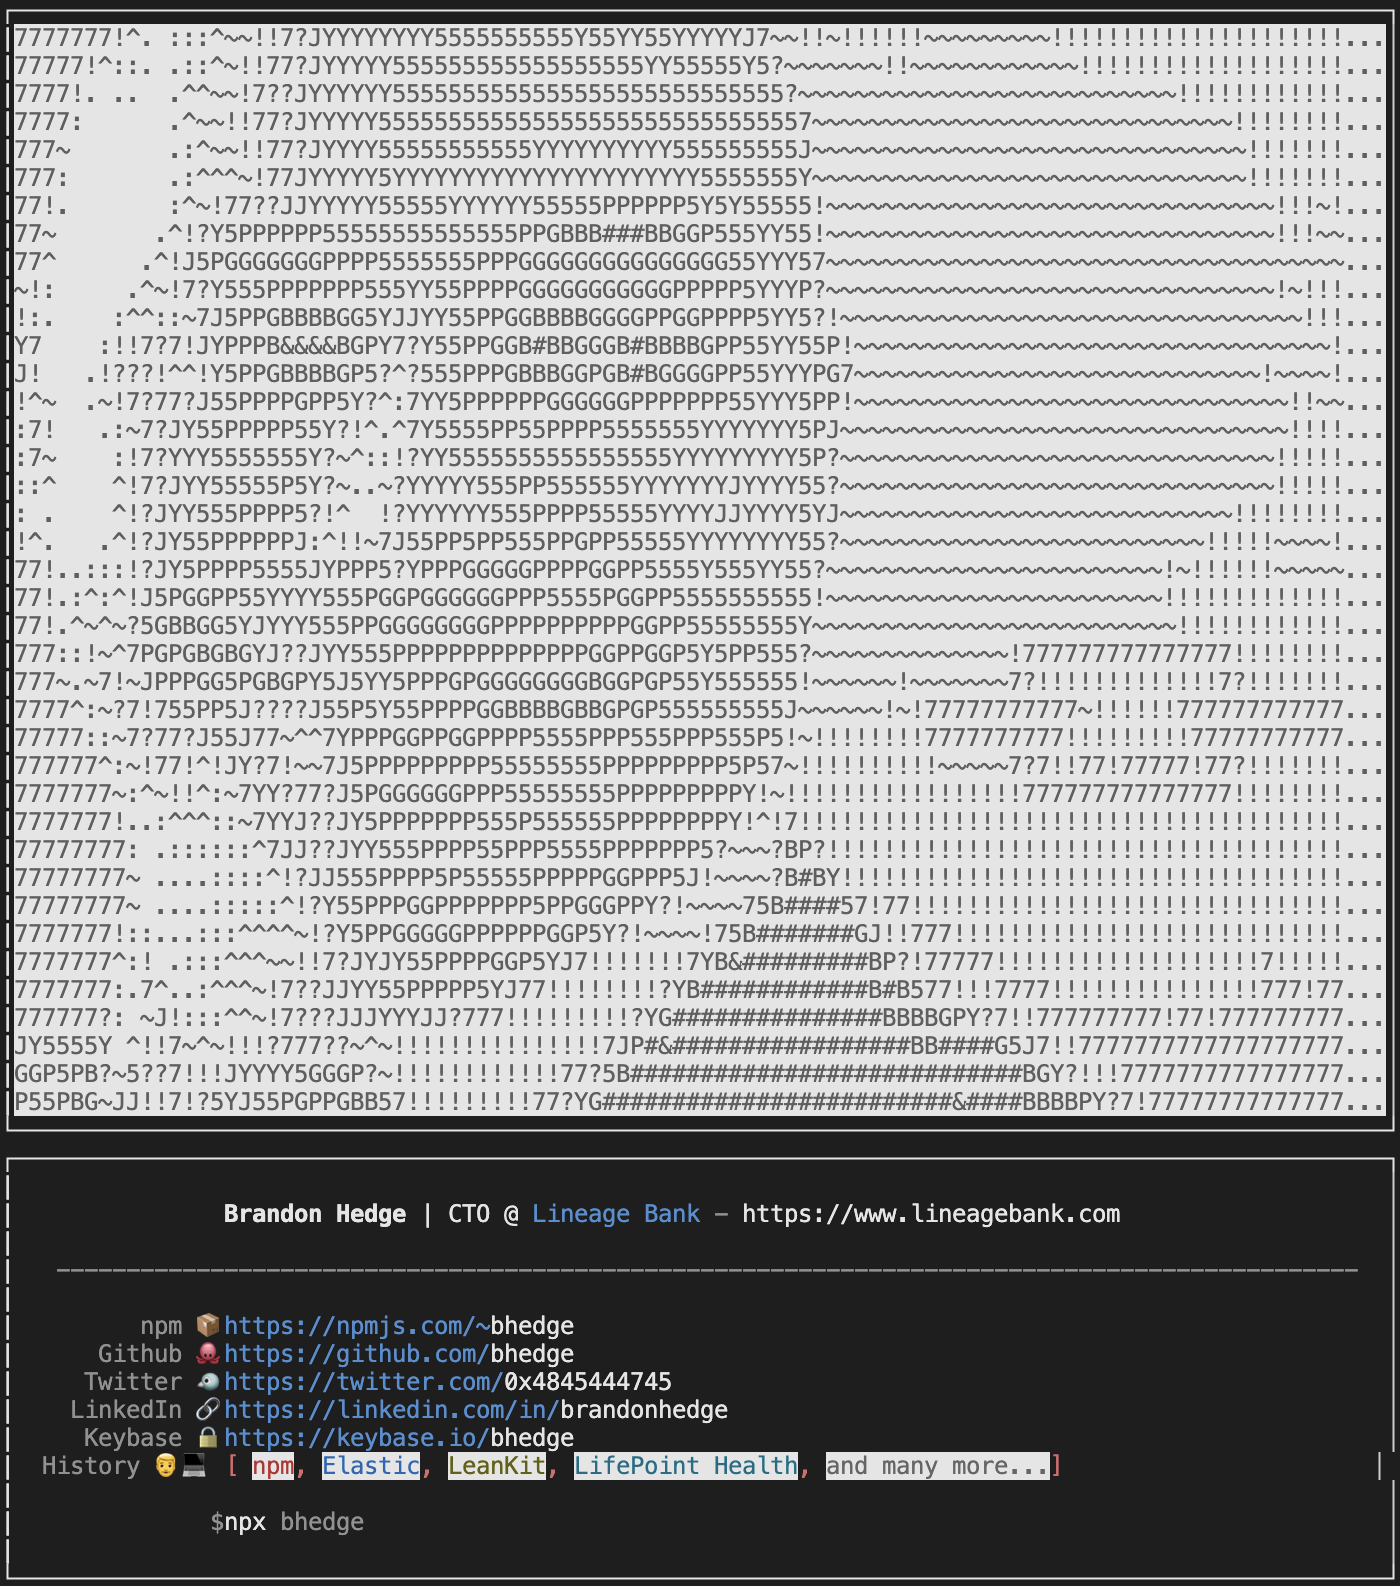
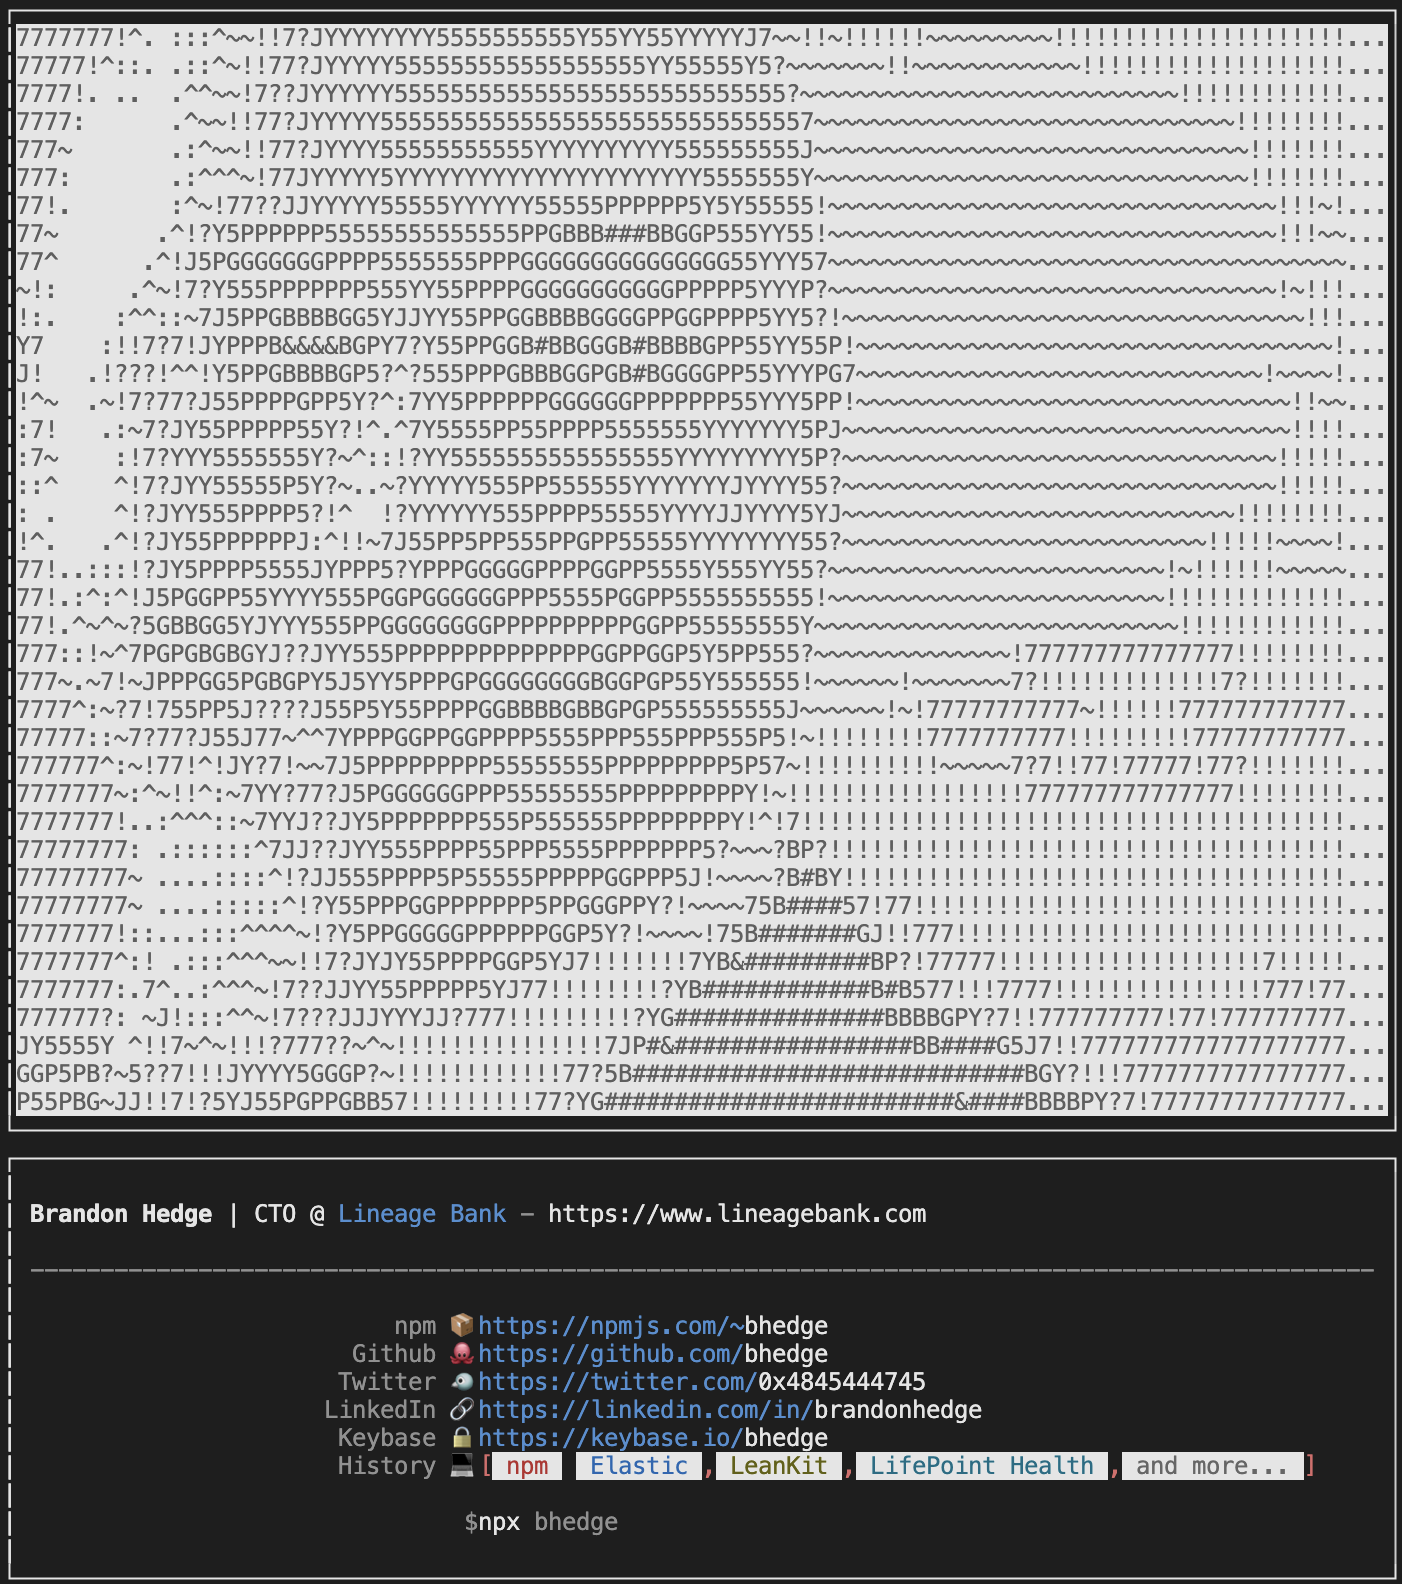
update moar

diff --git a/bin/card.js b/bin/card.js
@@ -65,11 +65,11 @@ PJ~.   ~YGBPBBBGBG5Y?7777??????JJYB######################&&&&&&&##BBBBBBBB######
 `.inverse;
 
 const blank = { label: '', value: '' }
-const line = { label: '------------', value: '---------------------------------------------------------------------------------' }
+const line = { label: '--------------------------------', value: '----------------------------------------------------------------' }
 const data = {
   name: {
-    label: '',
-    value: colors.grey(`${colors.white.bold('Brandon Hedge')} ${colors.white('| CTO @')} ${colors.blue('Lineage Bank')} - ${colors.white('https://www.lineagebank.com')}`)  
+    label: `${colors.white.bold(' Brandon Hedge')}`,
+    value: colors.grey(`${colors.white(' | CTO @')} ${colors.blue('Lineage Bank')} - ${colors.white('https://www.lineagebank.com')}`)  
   },
   npm: {
     label: 'npm 📦',
@@ -91,10 +91,6 @@ const data = {
     label: 'Keybase 🔒',
     value: colors.blue(`https://keybase.io/${colors.white('bhedge')}`)
   },
-  previous: {
-    label: '  History 👨💻',
-    value: colors.red(` [ ${colors.red('npm').bgWhite}, ${colors.blue('Elastic').bgWhite}, ${colors.yellow('LeanKit').bgWhite}, ${colors.cyan('LifePoint Health').bgWhite}, ${colors.gray('and many more...').bgWhite}]`)
-  },
   npx: {
     label: '$',
     value: colors.white(`npx ${colors.gray('bhedge')}`)
@@ -102,7 +98,11 @@ const data = {
   source: {
     label: '',
     value: colors.black(`Sourced from @bitandbang & @buzuli -- thanks!`)
-  }
+  },
+  previous: {
+    label: 'History 💻',
+    value: colors.red(`[${colors.red(' npm ').bgWhite} ${colors.blue(' Elastic ').bgWhite},${colors.yellow(' LeanKit ').bgWhite},${colors.cyan(' LifePoint Health ').bgWhite},${colors.gray(' and more... ').bgWhite}]`)
+  },
 };
 
 const card = [
